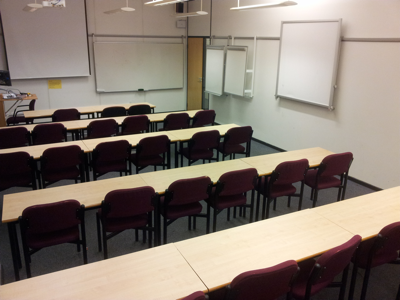
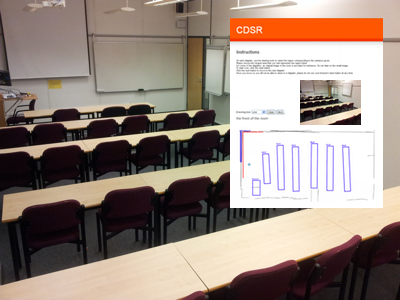
abstract tweaked, inset added to image

Changed region(s): [[0.57, 0.06, 0.96, 0.72]]

diff --git a/scenarios/cdsr/trunk/papers/AAAI2012/main-aaai12-cdsr.tex b/scenarios/cdsr/trunk/papers/AAAI2012/main-aaai12-cdsr.tex
@@ -61,10 +61,10 @@
 
 \maketitle
 \begin{abstract}
-In order to collaborate with people in the real world, cognitive systems must be able to represent and reason about spatial regions in human environments. Consider the command \emph{``go to the front of the classroom''}. The spatial region mentioned (the front of the classroom) is not perceivable using geometry alone. Instead it is defined by its functional use, implied by nearby objects and their configuration. In this paper, we define such areas as \textit{context-dependent spatial regions} and propose a method for a cognitive system to learn them incrementally by combining qualitative spatial representations, semantic labels, and analogy. Using data from a mobile robot, we generate a relational representation of semantically labeled objects and their configuration. Next, we show how the boundary of a context-dependent spatial region can be defined using \textit{anchor points}. We then demonstrate how an existing computational model of analogy can be used to transfer this region to a new situation. To evaluate this process we compare transferred regions to annotations made on maps of real rooms by human volunteers.
+In order to collaborate with people in the real world, cognitive systems must be able to represent and reason about spatial regions in human environments. Consider the command \emph{``go to the front of the classroom''}. The spatial region mentioned (the front of the classroom) is not perceivable using geometry alone. Instead it is defined by its functional use, implied by nearby objects and their configuration. In this paper, we define such areas as \textit{context-dependent spatial regions} and present a cognitive system able to learn them by combining qualitative spatial representations, semantic labels, and analogy. The system is capable of generating a collection of qualitative spatial representations describing the configuration of the entities it perceives in the world. It can then be taught context-dependent spatial regions using \textit{anchor points} defined on these representations.  We then demonstrate how an existing computational model of analogy can be used to detect context-dependent spatial regions in previously unseen rooms. To evaluate this process we compare detected regions to annotations made on maps of real rooms by human volunteers.
 \end{abstract}
 
- \section{Introduction}
+\section{Introduction}
 
 Consider a janitorial robot cleaning a classroom. While performing this task, it encounters a teacher working with a student. The teacher tells the robot to ``start at the front of the classroom'', expecting it to go to the front of the classroom and begin cleaning that area. This response requires that the robot is able to \emph{determine the spatial region in the environment that satisfies this concept}.
 
@@ -167,7 +167,7 @@ In our system, the base and target representations consist of the entities Dora 
 
 \begin{figure}
   \includegraphics[width=\columnwidth]{images/ug40.png}
-  \caption{One of the classrooms used in our evaluation. This image was presented to subjects who were  asked to annotate a copy of the image in the bottom half of Figure~\ref{fig:rooms}.}
+  \caption{One of the classrooms used in our evaluation. This image was presented to subjects who were asked to annotate a copy of the image in the bottom half of Figure~\ref{fig:rooms}. The inset shows a screenshot from the data collection webpage.}
   \label{fig:ug40}
 \end{figure}
 
